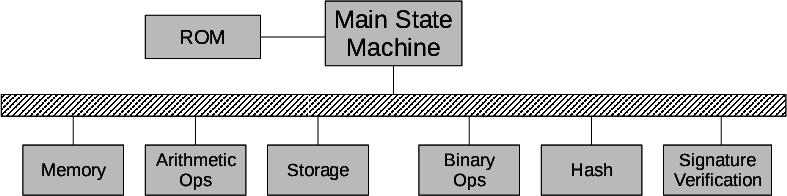
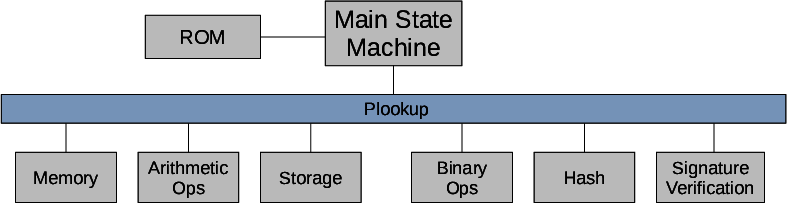
Major reorganization and renaming of zkvm slides

diff --git a/slides/zkEVM/build/architecture.tex b/slides/zkEVM/build/architecture.tex
@@ -451,7 +451,7 @@ keys
 
 
 % Titlepage
-\title{Zero Knowledge Ethereum Virtual Machine}
+\title{Zero Knowledge Virtual Machine}
 %\subtitle{Subtitle}
 \author{\textbf{Jordi Baylina ~~~ Héctor Masip ~~~ Jose L. Muñoz-Tapia}}
 \institute{Polygon-Hermez \\ Information Security Group, Universitat Politècnica de Catalunya (UPC)}
@@ -555,14 +555,15 @@ keys
 	
 \begin{frame}{Table of Contents}
   \hypersetup{linkcolor=.}
+  \setcounter{tocdepth}{1}
 	\tableofcontents
 \end{frame}
 	
 \input{\zkevmdir/architecture/latex/introduction}
-\input{\zkevmdir/architecture/latex/simple-vm}
-\input{\zkevmdir/architecture/latex/prover-architecture}
+\input{\zkevmdir/architecture/latex/simple-state-machine}
 \input{\zkevmdir/architecture/latex/microVM-architecture} %divide and conquer, plookup, permutation
-%\input{\zkevmdir/architecture/latex/pil}
-\input{\zkevmdir/architecture/latex/zkvm}
+\input{\zkevmdir/architecture/latex/individual-state-machines}
+\input{\zkevmdir/architecture/latex/main-state-machine}
+\input{\zkevmdir/architecture/latex/prover-workflow}
 
 \end{document}

diff --git a/slides/zkEVM/architecture/latex/microVM-architecture.tex b/slides/zkEVM/architecture/latex/microVM-architecture.tex
@@ -1,12 +1,14 @@
 % !TeX spellcheck = en_GB
-% !TeX root = ../../build/zkEVM-architecture.tex
+% !TeX root = ../../build/architecture.tex
 
-\section{$\mu$VM Architecture}
+\section{Virtual Machine Architecture}
+
+%TODO: Talk about the strategy of creating mini state machines and then prove inclusion in the main state machine
 
 %TODO: Think this figure a little bit more to a better organization
 \begin{frame}{$\mu$VM Architecture}
 \begin{figure}
 \includegraphics[width=\textwidth]{\zkevmdir/architecture/figures/microVM-architecture}
 \end{figure}
-All the relations between the different state machines are described as polynomial identities.
+%All the relations between the different state machines are described as polynomial identities.
 \end{frame}

diff --git a/slides/zkEVM/architecture/latex/prover-workflow.tex b/slides/zkEVM/architecture/latex/prover-workflow.tex
@@ -1,8 +1,8 @@
 % !TeX spellcheck = en_GB
 % !TeX root = ../../build/architecture.tex
 
-\section{Prover Architecture}
-\begin{frame}{Prover Architecture}
+\section{Prover Workflow}
+\begin{frame}{Prover Workflow}
 \begin{figure}
 \includegraphics[width=\textwidth]{\zkevmdir/architecture/figures/prover-architecture-extended}
 \end{figure}

diff --git a/slides/zkEVM/architecture/latex/individual-state-machines.tex b/slides/zkEVM/architecture/latex/individual-state-machines.tex
@@ -1,0 +1,16 @@
+% !TeX spellcheck = en_GB
+% !TeX root = ../../build/architecture.tex
+
+\section{Individual State Machines}
+
+\subsection{Storage}
+
+
+\begin{frame}{TBD}
+\begin{itemize}
+\item Hola
+\end{itemize}
+\end{frame}
+
+
+
